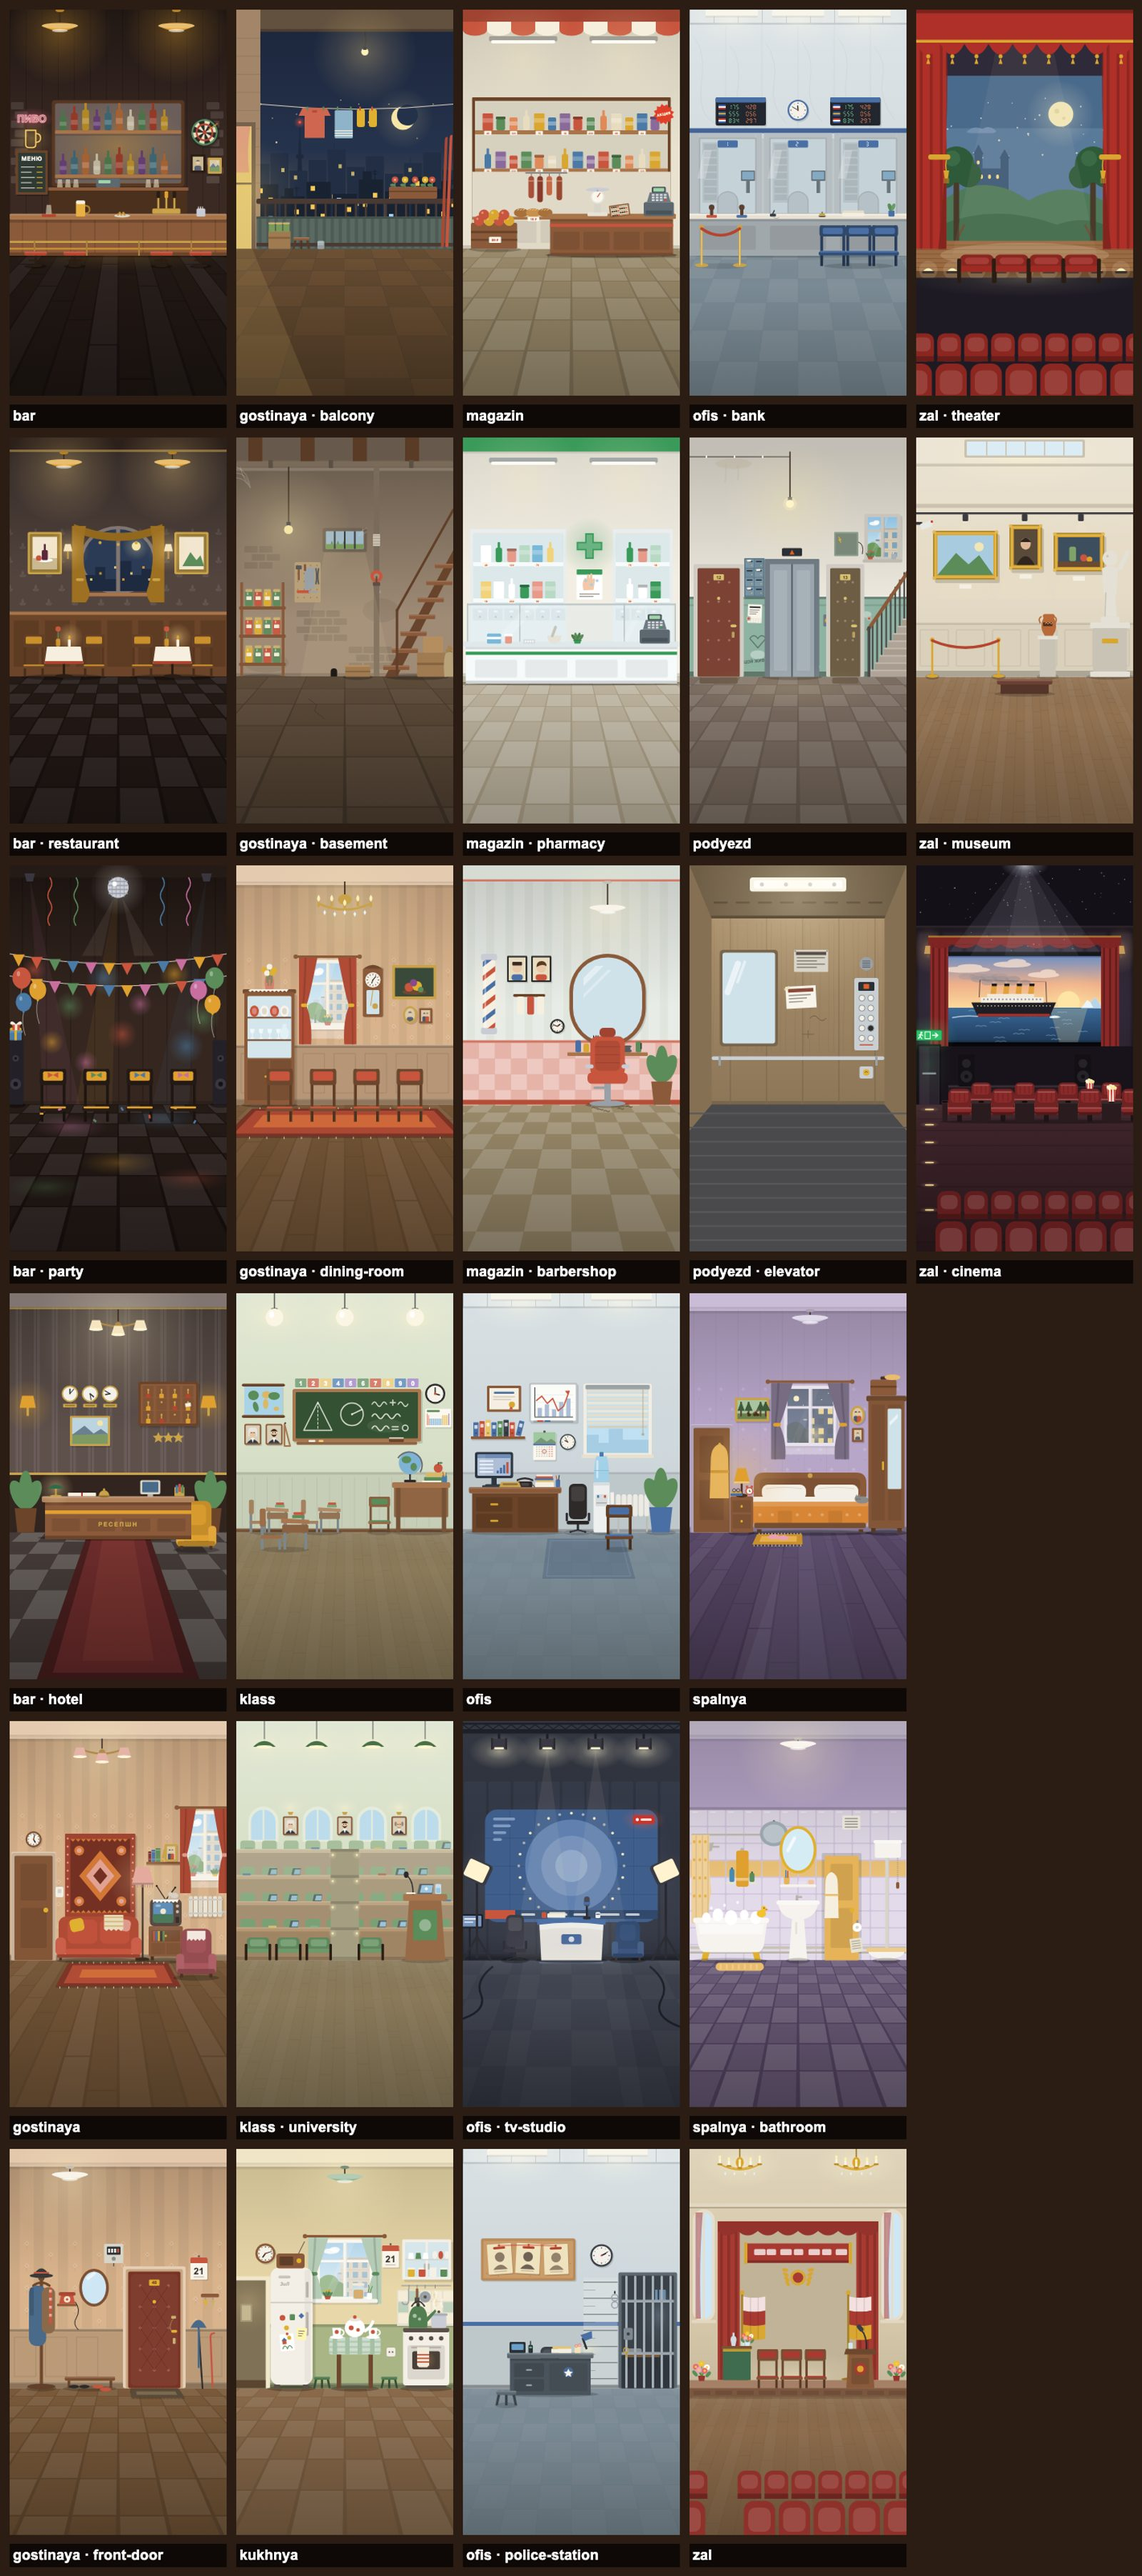
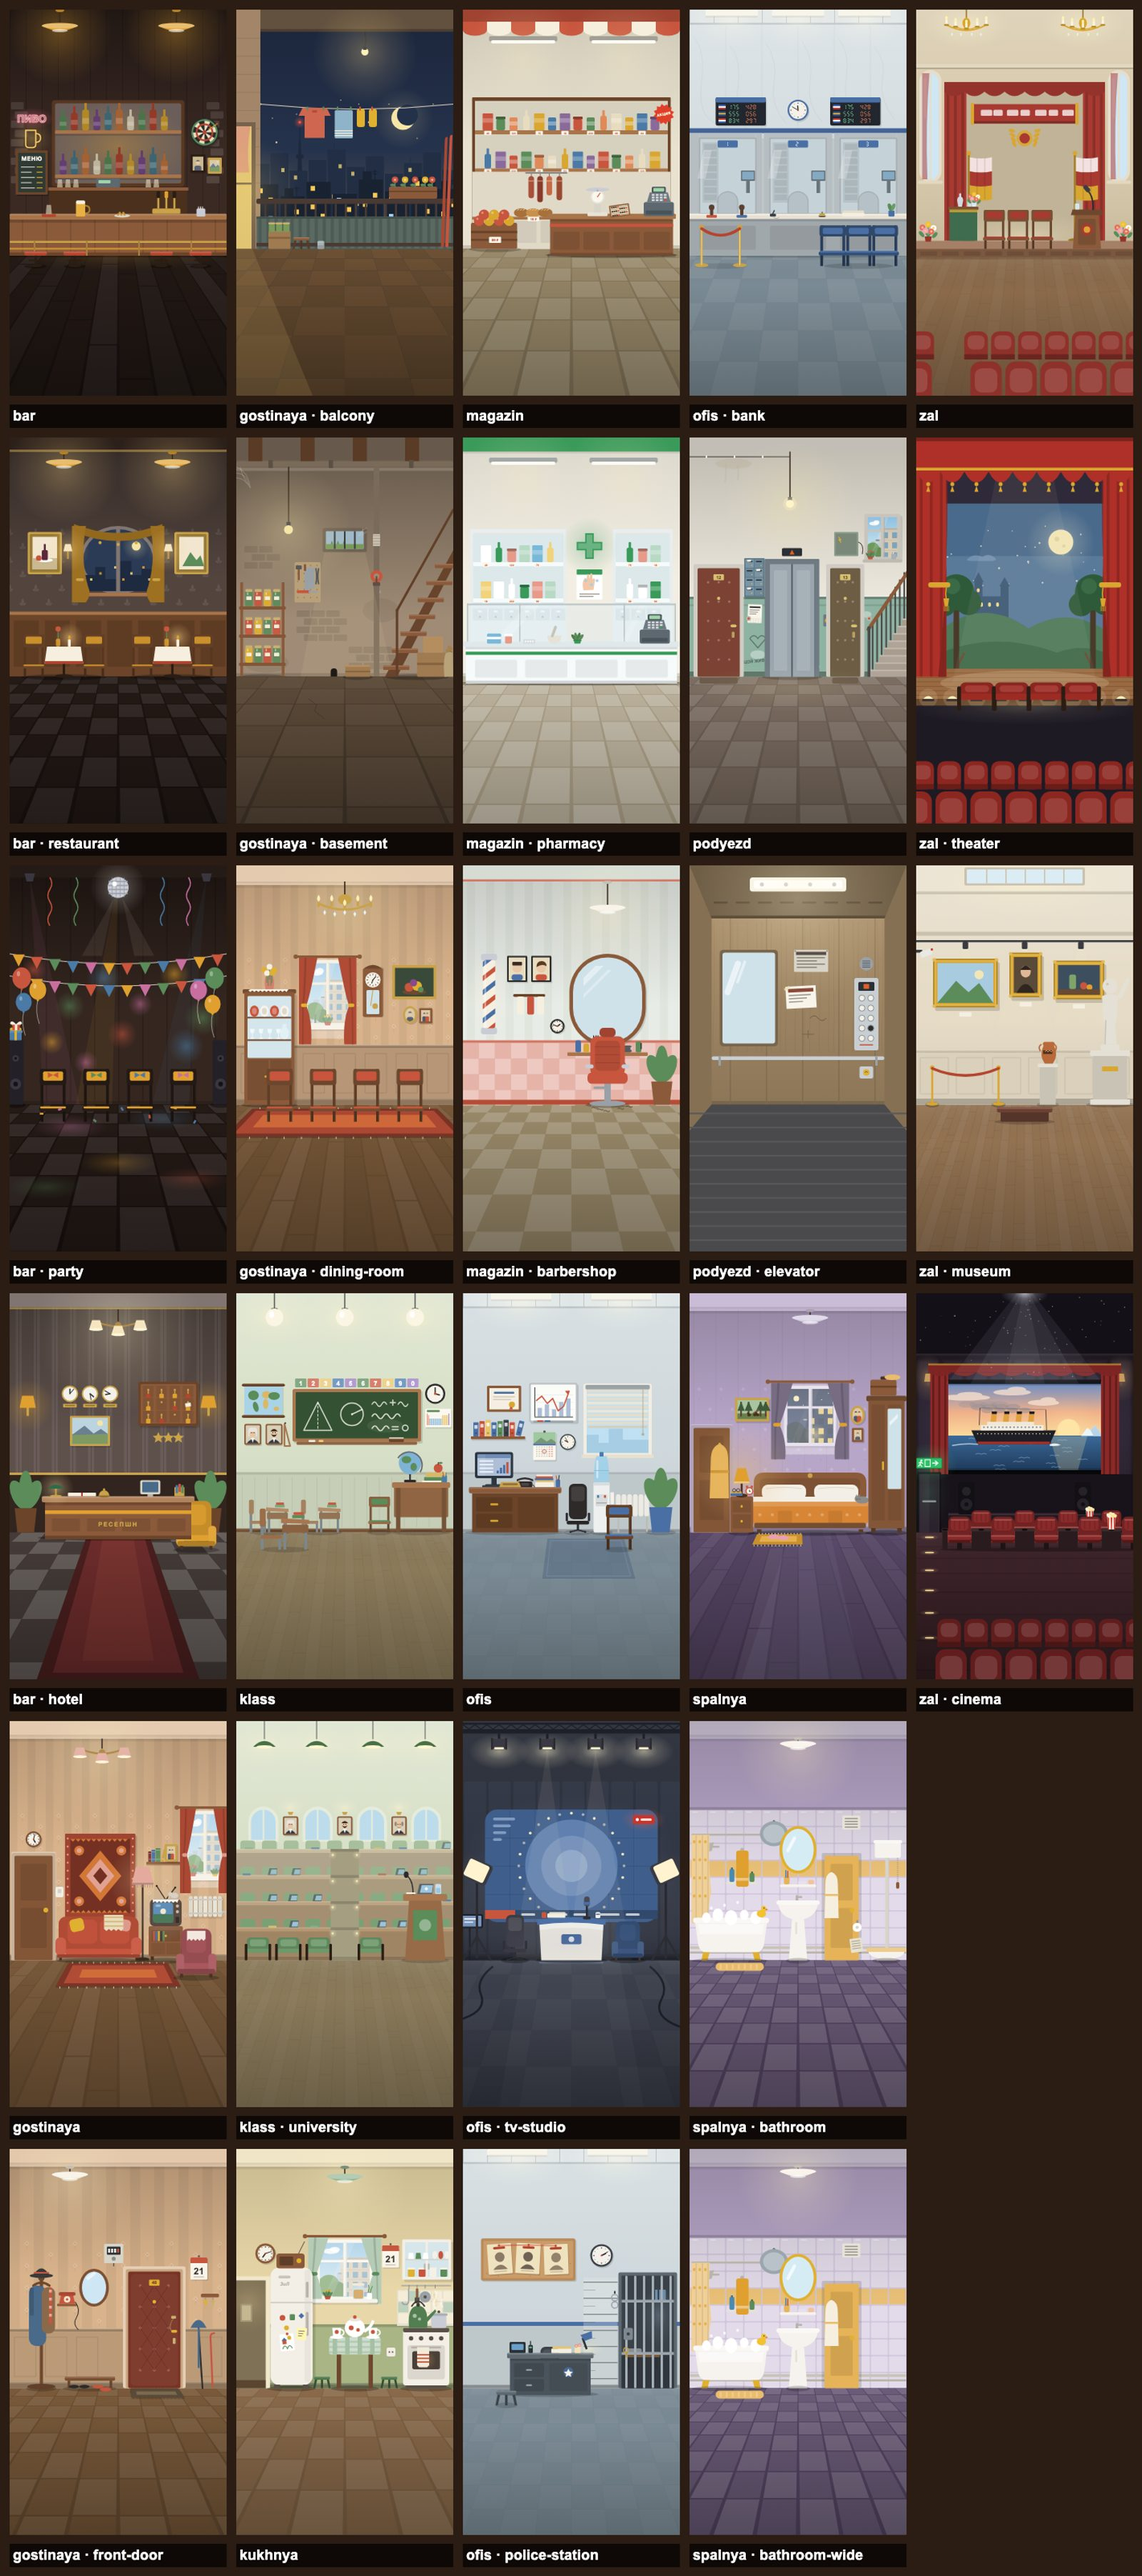
README: fresh sheets of puppets, roles, props, places; bar with marks and front layer

Changed region(s): [[0.7812, 0.0, 1.0, 0.6833], [0.5938, 0.8075, 0.8125, 0.9939]]

diff --git a/README.md b/README.md
@@ -3,7 +3,7 @@
 Короткие вертикальные видео по анекдотам на русском, английском и немецком: векторные куклы, нарисованные кодом, закадровый смех и музыка (CC0), озвучка (ElevenLabs или ComfyUI на сервере, в планах), субтитры-караоке, монтаж в Remotion, публикация через Postiz, база публикаций и метрик в Postgres.
 
 - База: 6000 популярных анекдотов (по 2000 на язык) с разметкой: персонажи, локации, переводимость, флаги.
-- Каст: 37 кукол (с двойниками, формой и костюмами под роли), 19 мест и 67 комнат (сублокаций) с глубиной, сиденьями и мебелью, 14 видов транспорта.
+- Каст: 37 кукол (с двойниками, формой и костюмами под роли), 19 мест и 68 комнат (сублокаций) с глубиной, сиденьями, стойками и мебелью, 14 видов транспорта, 58 предметов. Надписи в фонах — на языке ролика.
 - Сценарии: LLM-стадия пишет и адаптирует сценарии дословно по источнику, движок ставит их сам (действия, глубина, комнаты, машины) → `content/episodes/` (1800 эпизодов; переписываются кругами, см. [docs/ENGINE.md](docs/ENGINE.md)).
 - База `anek-db` (Postgres, `packages/db`): анекдоты, ассеты, эпизоды, рендеры, публикации, метрики. Публикация — Postiz ([docs/POSTIZ.md](docs/POSTIZ.md)).
 
@@ -24,6 +24,10 @@
 
 ![Действия](docs/img/acts.jpg)
 
+**Предметы** — в руке и положенные на стол (`content/props.json`, рисунок `remotion/src/props/Props.tsx`):
+
+![Предметы](docs/img/props.jpg)
+
 **Места и комнаты** — дом, бар, магазин, офис, школа, зал:
 
 ![Места 1](docs/img/loc1.jpg)
@@ -31,6 +35,10 @@
 …больница, самолёт, дорога и транспорт внутри, улица, деревня, небеса, церковь, суд, баня, пляж:
 
 ![Места 2](docs/img/loc2.jpg)
+
+**Как устроено место** — бар и его комнаты с метками: кружок — где стоит кукла (ниже — ближе к камере), розовая полоса — сиденье, на котором кукла сидит сама; стойка — передний слой, бармен за ней:
+
+![Метки бара](docs/img/marks.jpg)
 
 **Транспорт снаружи** — седоки в окнах или верхом:
 
@@ -44,6 +52,7 @@ npx remotion still src/index.ts Outfits out.png --props='{"mode":"roles"}'
 npx remotion still src/index.ts Acts out.png --props='{"who":"muzhik"}'
 npx remotion still src/index.ts Locations out.png --props='{"only":["bar"],"marks":true,"locale":"en"}'
 npx remotion still src/index.ts Vehicles out.png
+npx remotion still src/index.ts Props out.png
 npx remotion still src/index.ts Joke out.png --props=../content/episodes/<id>.json --frame=120
 ```
 
